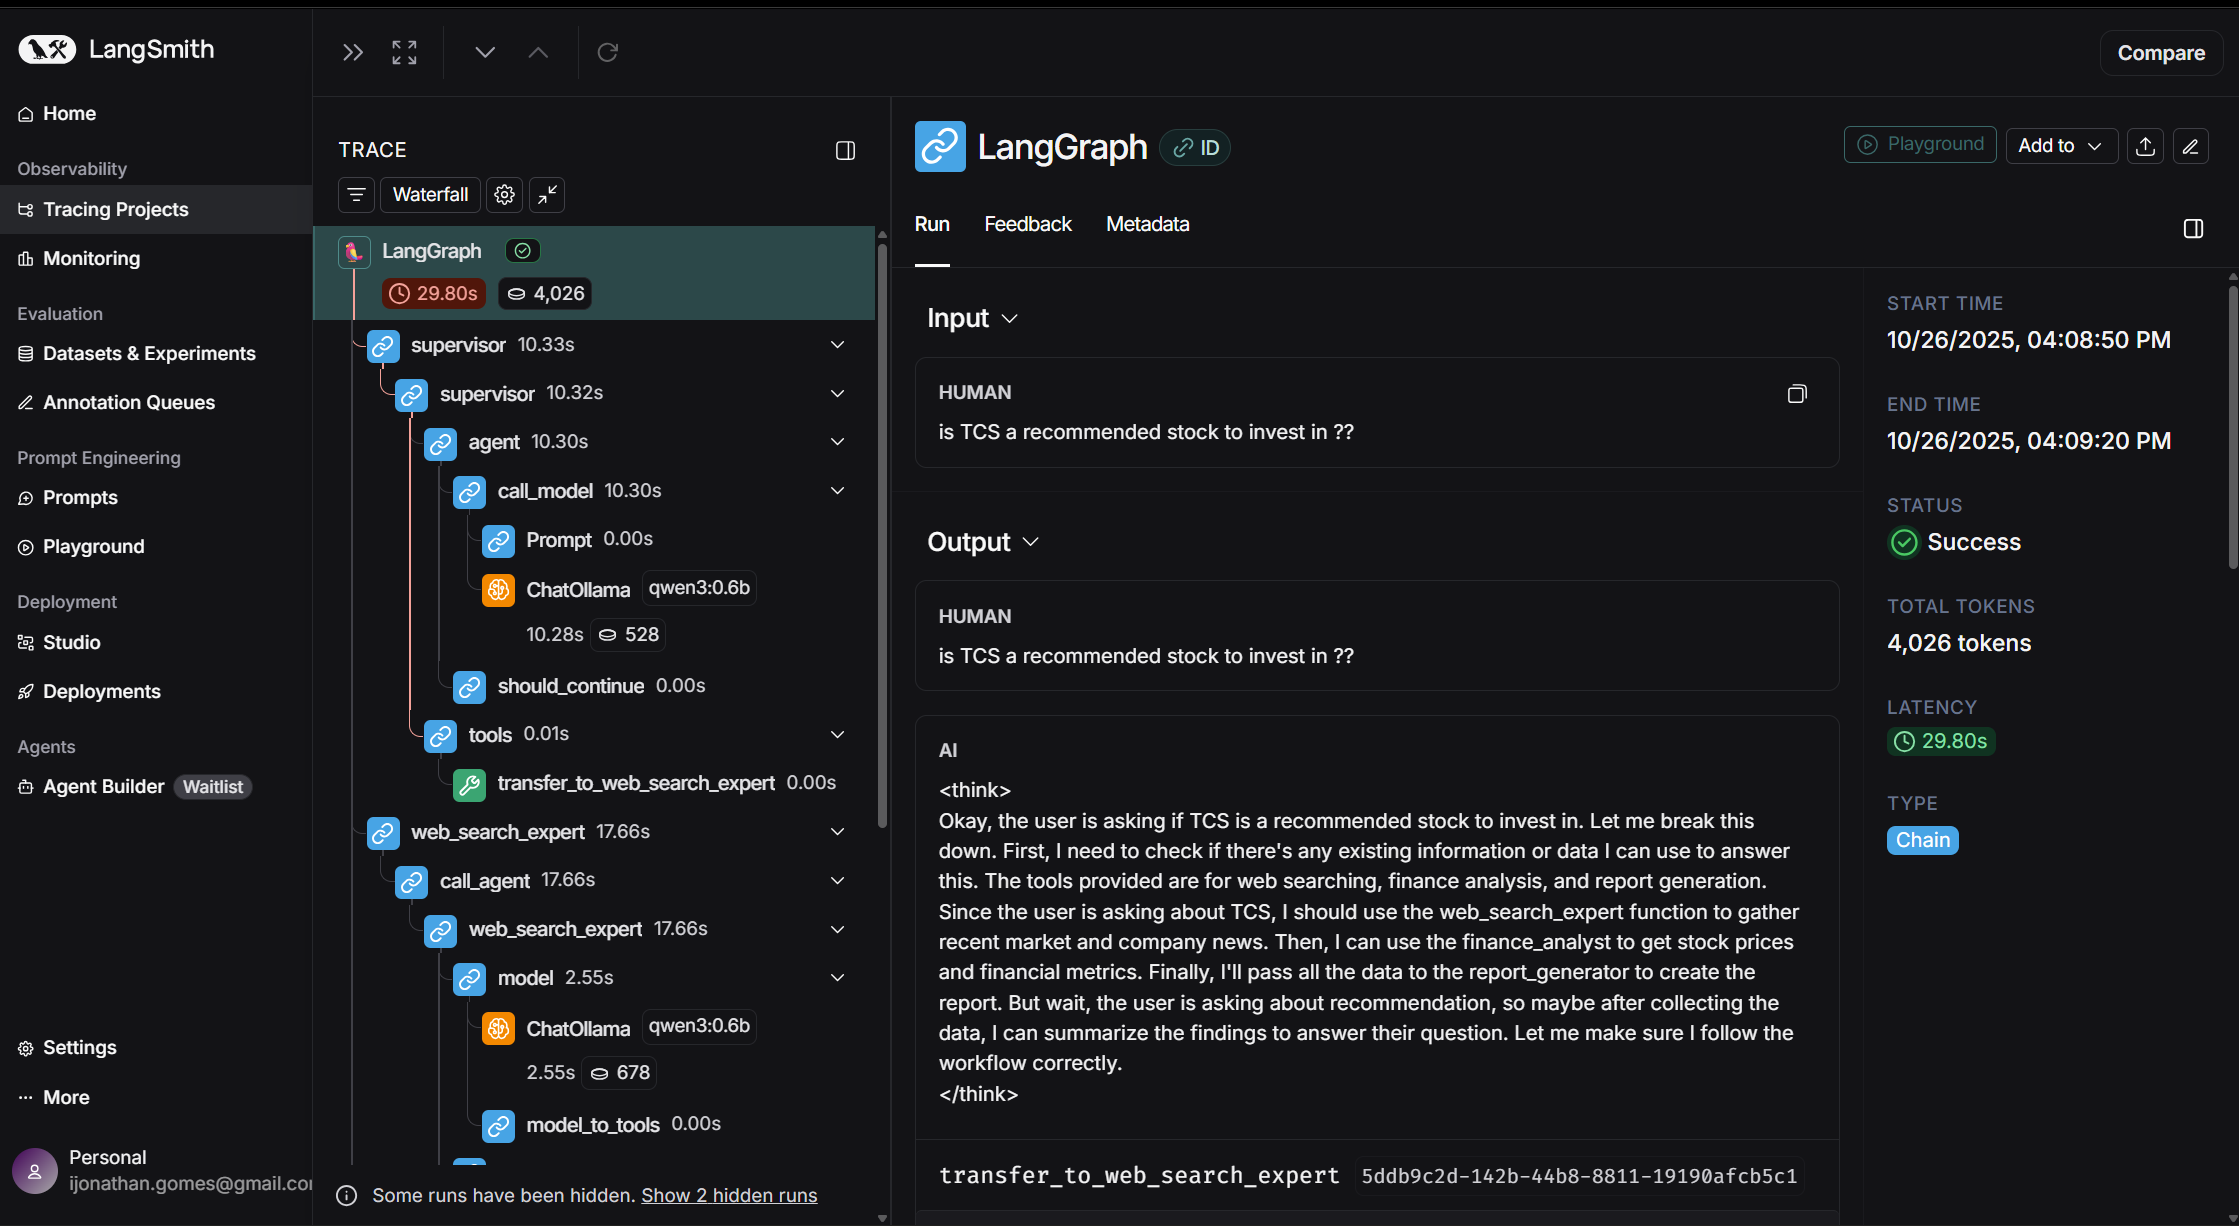
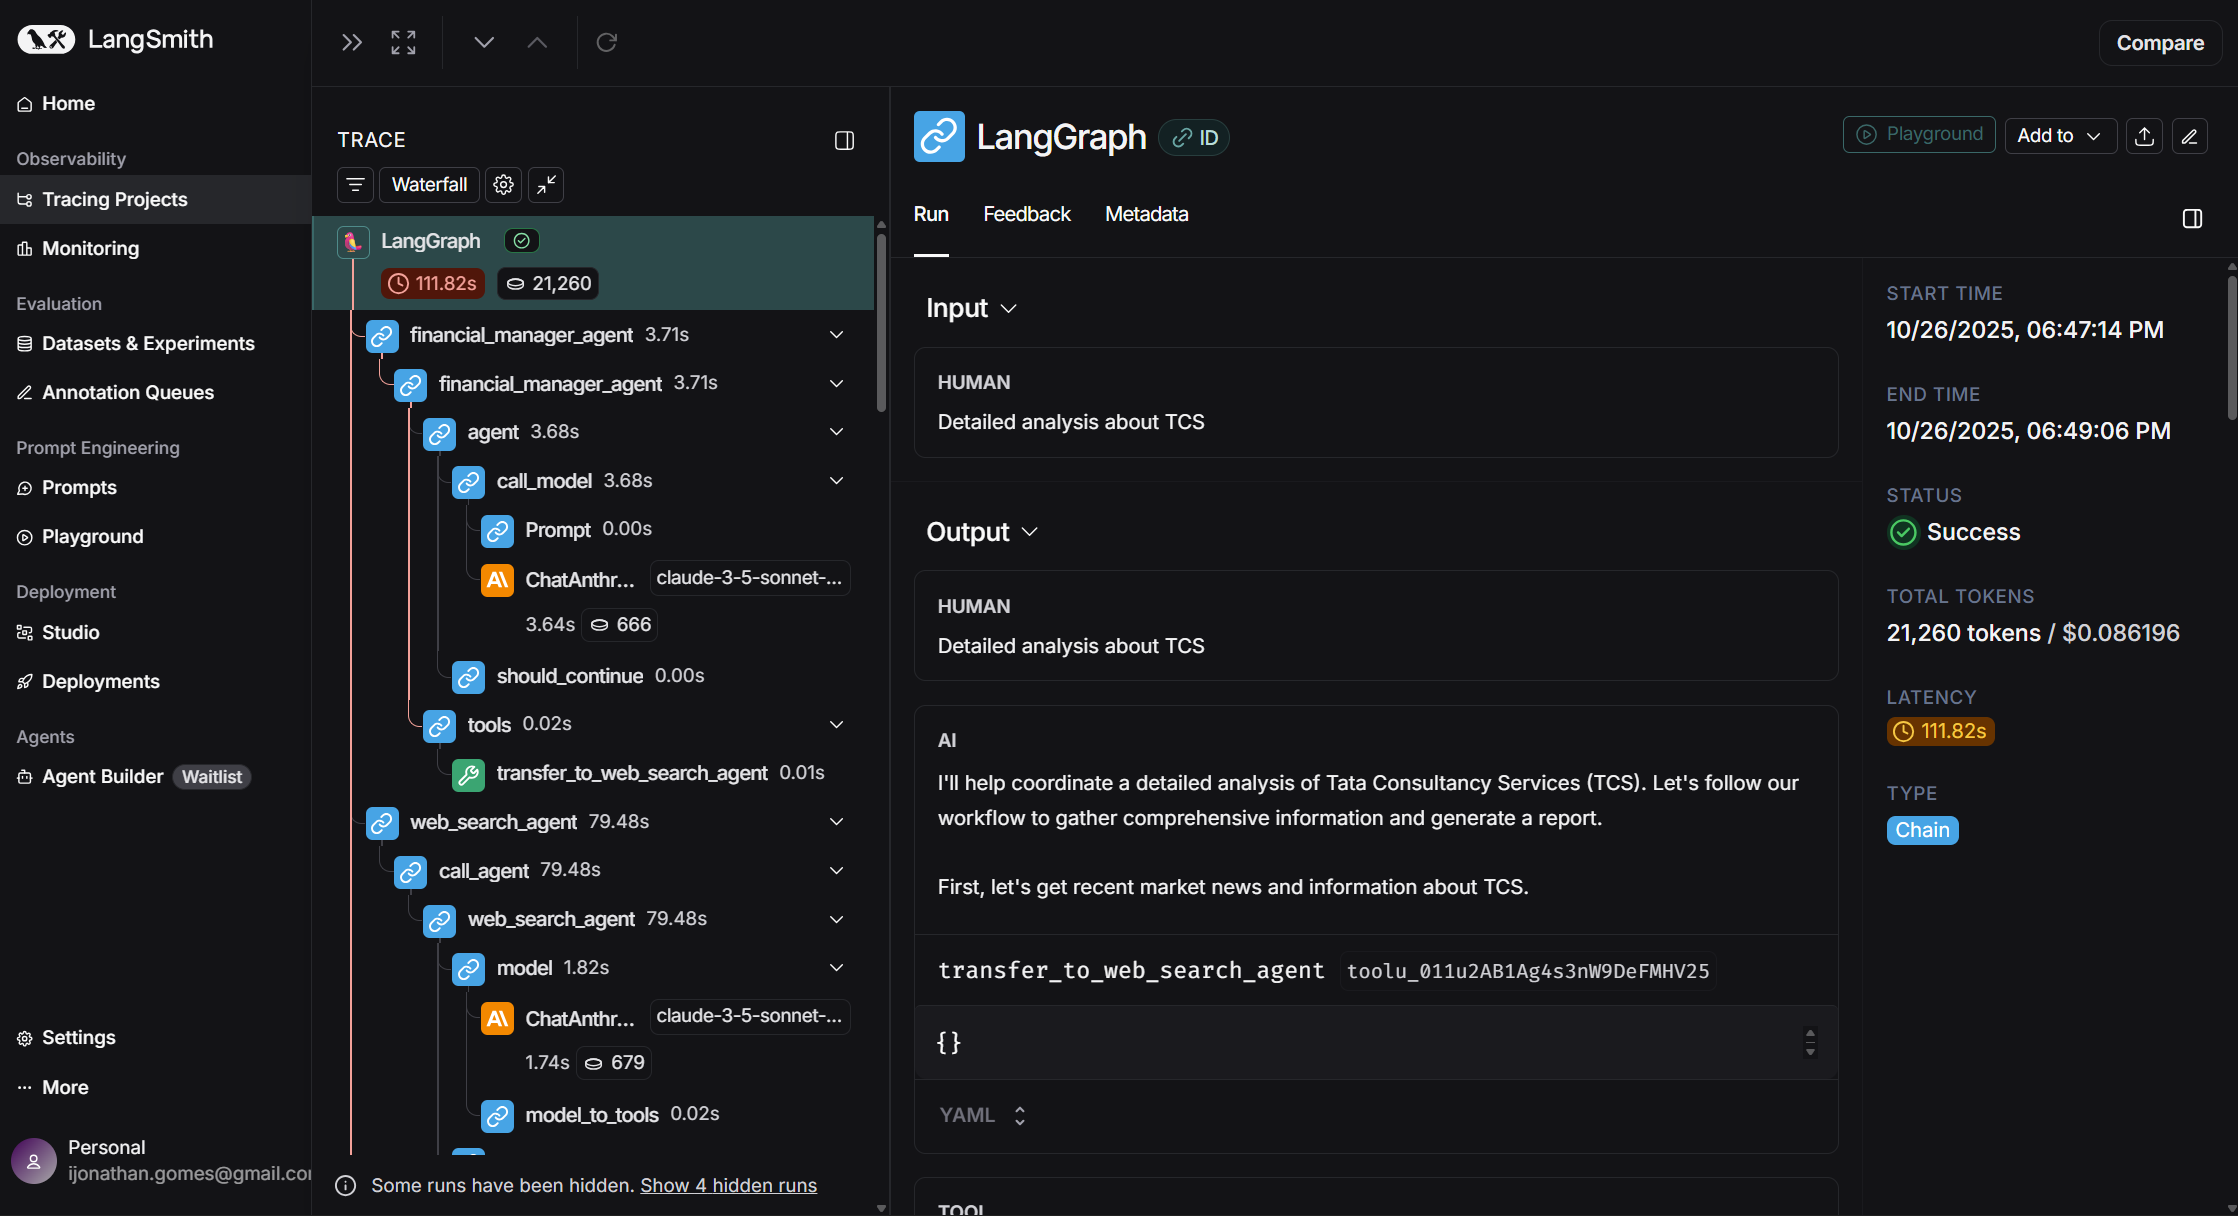
Superior-Agent

diff --git a/src/agent/agent.py b/src/agent/agent.py
@@ -1,5 +1,4 @@
 from langchain_anthropic import ChatAnthropic
-# from langchain_ollama import ChatOllama
 from dotenv import load_dotenv
 from langgraph_supervisor import create_supervisor
 from langchain_core.runnables.graph import CurveStyle, MermaidDrawMethod, NodeStyles
@@ -46,13 +45,11 @@ except ImportError:
     SUPERVISOR_PROMPT
 )
 
-
-
 load_dotenv()
 
 # Initialize model
 model = ChatAnthropic(model=os.getenv("LLM_CHOICE"))
-# model = ChatOllama(model="qwen3:0.6b", temperature=0) # not better tool calling
+
 
 # Create specialized agents
 web_search_agent = create_agent(
